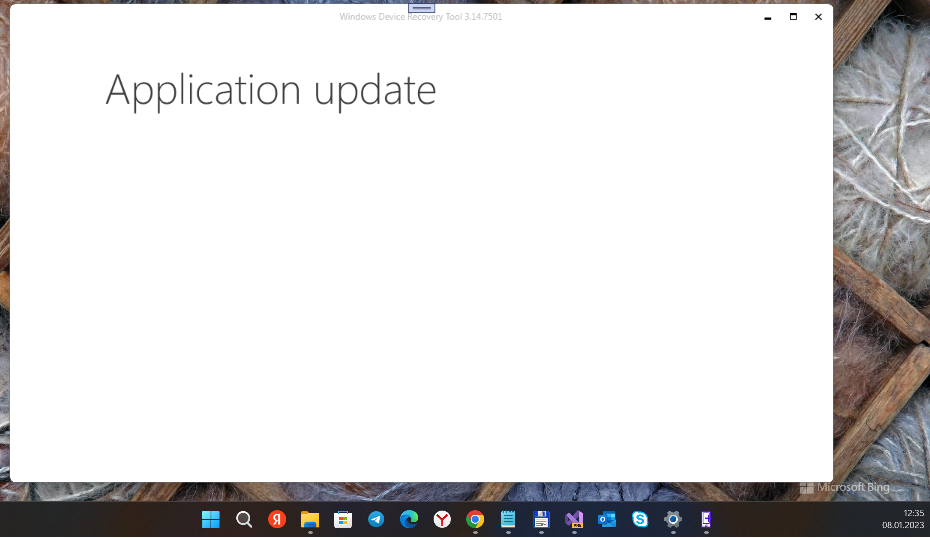
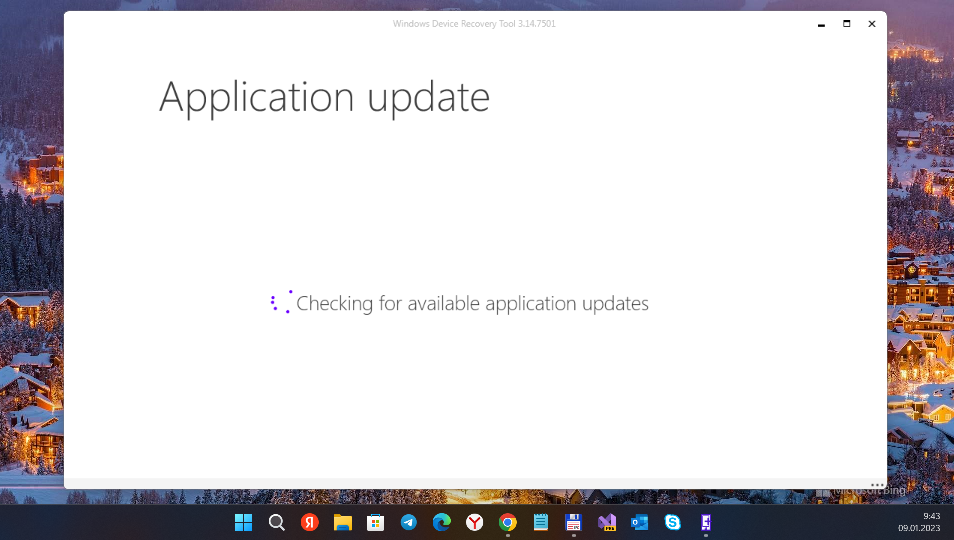
.

Changed region(s): [[0.0, 0.0, 1.0, 1.0], [0.2806, 0.5353, 0.686, 0.5948], [0.0, 0.9814, 0.0312, 1.0]]

diff --git a/Src/WindowsDeviceRecoveryTool/States/Shell/ShellView.xaml b/Src/WindowsDeviceRecoveryTool/States/Shell/ShellView.xaml
@@ -1,24 +1,37 @@
 <ContentControl
-	x:Class="Microsoft.WindowsDeviceRecoveryTool.States.Shell.ShellView" xmlns="http://schemas.microsoft.com/winfx/2006/xaml/presentation" xmlns:x="http://schemas.microsoft.com/winfx/2006/xaml" xmlns:d="http://schemas.microsoft.com/expression/blend/2008" xmlns:mc="http://schemas.openxmlformats.org/markup-compatibility/2006" xmlns:framework="clr-namespace:Microsoft.WindowsDeviceRecoveryTool.Framework" xmlns:resources="clr-namespace:Microsoft.WindowsDeviceRecoveryTool.Resources" xmlns:controls="clr-namespace:Microsoft.WindowsDeviceRecoveryTool.Controls" xmlns:i="http://schemas.microsoft.com/expression/2010/interactivity" xmlns:sys="clr-namespace:System;assembly=mscorlib" xmlns:threading="clr-namespace:System.Windows.Threading;assembly=WindowsBase" xmlns:converters="clr-namespace:Microsoft.WindowsDeviceRecoveryTool.Styles.Converters;assembly=Microsoft.WindowsDeviceRecoveryTool.Styles"
-	Focusable="False" xmlns:shell="clr-namespace:Microsoft.WindowsDeviceRecoveryTool.States.Shell"
-	MouseLeftButtonDown="ShellView_OnMouseLeftButtonDown"
+	x:Class="Microsoft.WindowsDeviceRecoveryTool.States.Shell.ShellView" 
+    xmlns="http://schemas.microsoft.com/winfx/2006/xaml/presentation" 
+    xmlns:x="http://schemas.microsoft.com/winfx/2006/xaml" 
+    xmlns:d="http://schemas.microsoft.com/expression/blend/2008" 
+    xmlns:mc="http://schemas.openxmlformats.org/markup-compatibility/2006" 
+    xmlns:framework="clr-namespace:Microsoft.WindowsDeviceRecoveryTool.Framework" 
+    xmlns:resources="clr-namespace:Microsoft.WindowsDeviceRecoveryTool.Resources" 
+    xmlns:controls="clr-namespace:Microsoft.WindowsDeviceRecoveryTool.Controls" 
+    xmlns:i="http://schemas.microsoft.com/expression/2010/interactivity" 
+    xmlns:sys="clr-namespace:System;assembly=mscorlib" 
+    xmlns:threading="clr-namespace:System.Windows.Threading;assembly=WindowsBase" 
+    xmlns:converters="clr-namespace:Microsoft.WindowsDeviceRecoveryTool.Styles.Converters;assembly=Microsoft.WindowsDeviceRecoveryTool.Styles"
+	Focusable="False" xmlns:shell="clr-namespace:Microsoft.WindowsDeviceRecoveryTool.States.Shell" 
+    MouseLeftButtonDown="ShellView_OnMouseLeftButtonDown"
 	MouseRightButtonDown="ShellView_OnMouseRightButtonDown"
 	PreviewKeyDown="ShellView_OnPreviewKeyDown"
 	Unloaded="ShellView_OnUnloaded">
 	<FrameworkElement.Resources>
+        
 		<ResourceDictionary>
 			<threading:DispatcherTimer
 				Interval="0:0:0.1"
 				x:Key="FocusDelayTimer"
 				Tick="FocusDelayTimer_OnTick" />
-			<!--converters:StringNullOrEmptyToVisibilityConverter
-				Collapse="False"
-				x:Key="StringNullOrEmptyToVisibilityConverter" /-->
-		</ResourceDictionary>
+		     <converters:StringNullOrEmptyToVisibilityConverter 
+                 Collapse="False"	
+                 x:Key="StringNullOrEmptyToVisibilityConverter" />
+        </ResourceDictionary>
 	</FrameworkElement.Resources>
-	<Grid>
-		<controls:GenericRoot
-		    x:Name="GenericRoot1"
+	
+    <Grid>
+            <controls:GenericRoot
+		    x:Name="GenericRoot"
 			KeyboardNavigation.TabNavigation="Cycle"
 			KeyboardNavigation.IsTabStop="False"
 			FocusVisualStyle="{x:Null}"
@@ -82,19 +95,19 @@
 					KeyboardNavigation.TabNavigation="None"
 					FocusVisualStyle="{x:Null}">
 					
-                    <!--controls:NotificationControl
+                    <controls:NotificationControl
 						Margin="10,0,-80,0"
 						HeaderStyle="{DynamicResource SubheaderTextStyle}"
 						MessageStyle="{DynamicResource BasicTextStyle}"
 						ShowNotification="{Binding IsNotificationVisible}"
 						NotificationText="{Binding NotificationText}"
 						NotificationHeader="{Binding NotificationHeader}" 
-                      /-->
+                      />
                     
 				</ContentControl>
 				
-                <!--controls:MainAreaControl
-					Name="MainContent"
+                <controls:MainAreaControl
+					x:Name="MainContent"
 					ContentChanged="MainContent_OnContentChanged"
 					Grid.Column="1"
 					Grid.Row="1"
@@ -102,13 +115,9 @@
 					VerticalAlignment="Stretch"
 					framework:RegionManager.RegionName="{x:Static resources:Consts.MainArea}"
 					Focusable="False"
-					FocusVisualStyle="{x:Null}" 
-                /-->
+					FocusVisualStyle="{x:Null}" />
 
-                <!--
-                framework:RegionManager.RegionName="{x:Static resources:Consts.SettingsArea}"
-                -->
-                    <ContentControl
+                <ContentControl
 					Grid.Column="0"
 					Grid.ColumnSpan="3"
 					Grid.Row="1"
@@ -116,16 +125,17 @@
 					HorizontalAlignment="Stretch"
 					HorizontalContentAlignment="Stretch"
 					Grid.RowSpan="2"
-					Focusable="False"
+					framework:RegionManager.RegionName="{x:Static resources:Consts.SettingsArea}"
+                    Focusable="False"
 					FocusVisualStyle="{x:Null}">
-					<!--controls:SettingsControl
-						Name="SettingsControl"
+                    <controls:SettingsControl
+						x:Name="SettingsControl"
 						HorizontalAlignment="Stretch"
 						Margin="-10,0,-10,0"
 						MinHeight="50"
-						VerticalAlignment="Bottom" /-->
-				</ContentControl>
-			</Grid>
+						VerticalAlignment="Bottom" />
+                </ContentControl>
+            </Grid>
 		</controls:GenericRoot>
         
 		<StackPanel
@@ -144,5 +154,6 @@
 				VerticalAlignment="Center"
 				Text="{Binding BusyMessage}" />
 		</StackPanel>
+        
 	</Grid>
 </ContentControl>

diff --git a/Src/WindowsDeviceRecoveryTool/States/Settings/MainSettingsView.xaml b/Src/WindowsDeviceRecoveryTool/States/Settings/MainSettingsView.xaml
@@ -1,5 +1,14 @@
 <Grid
-	x:Class="Microsoft.WindowsDeviceRecoveryTool.States.Settings.MainSettingsView" xmlns="http://schemas.microsoft.com/winfx/2006/xaml/presentation" xmlns:x="http://schemas.microsoft.com/winfx/2006/xaml" xmlns:mc="http://schemas.openxmlformats.org/markup-compatibility/2006" xmlns:d="http://schemas.microsoft.com/expression/blend/2008" xmlns:framework="clr-namespace:Microsoft.WindowsDeviceRecoveryTool.Framework" xmlns:resources="clr-namespace:Microsoft.WindowsDeviceRecoveryTool.Resources" xmlns:settings="clr-namespace:Microsoft.WindowsDeviceRecoveryTool.States.Settings" xmlns:localization="clr-namespace:Microsoft.WindowsDeviceRecoveryTool.Localization;assembly=Microsoft.WindowsDeviceRecoveryTool.Localization" xmlns:behaviors="clr-namespace:Microsoft.WindowsDeviceRecoveryTool.Styles.Behaviors;assembly=Microsoft.WindowsDeviceRecoveryTool.Styles">
+	x:Class="Microsoft.WindowsDeviceRecoveryTool.States.Settings.MainSettingsView" 
+    xmlns="http://schemas.microsoft.com/winfx/2006/xaml/presentation" 
+    xmlns:x="http://schemas.microsoft.com/winfx/2006/xaml" 
+    xmlns:mc="http://schemas.openxmlformats.org/markup-compatibility/2006" 
+    xmlns:d="http://schemas.microsoft.com/expression/blend/2008" 
+    xmlns:framework="clr-namespace:Microsoft.WindowsDeviceRecoveryTool.Framework" 
+    xmlns:resources="clr-namespace:Microsoft.WindowsDeviceRecoveryTool.Resources" 
+    xmlns:settings="clr-namespace:Microsoft.WindowsDeviceRecoveryTool.States.Settings" 
+    xmlns:localization="clr-namespace:Microsoft.WindowsDeviceRecoveryTool.Localization;assembly=Microsoft.WindowsDeviceRecoveryTool.Localization" 
+    xmlns:behaviors="clr-namespace:Microsoft.WindowsDeviceRecoveryTool.Styles.Behaviors;assembly=Microsoft.WindowsDeviceRecoveryTool.Styles">
 	<Grid.ColumnDefinitions>
 		<ColumnDefinition
 			Width="200" />

diff --git a/Src/WindowsDeviceRecoveryTool/States/Help/MainHelpView.xaml b/Src/WindowsDeviceRecoveryTool/States/Help/MainHelpView.xaml
@@ -1,5 +1,14 @@
 <ScrollViewer
-	x:Class="Microsoft.WindowsDeviceRecoveryTool.States.Help.MainHelpView" xmlns="http://schemas.microsoft.com/winfx/2006/xaml/presentation" xmlns:x="http://schemas.microsoft.com/winfx/2006/xaml" xmlns:mc="http://schemas.openxmlformats.org/markup-compatibility/2006" xmlns:d="http://schemas.microsoft.com/expression/blend/2008" xmlns:l="clr-namespace:Microsoft.WindowsDeviceRecoveryTool.Localization;assembly=Microsoft.WindowsDeviceRecoveryTool.Localization" xmlns:framework="clr-namespace:Microsoft.WindowsDeviceRecoveryTool.Framework" xmlns:resources="clr-namespace:Microsoft.WindowsDeviceRecoveryTool.Resources" xmlns:help="clr-namespace:Microsoft.WindowsDeviceRecoveryTool.States.Help" xmlns:behaviors="clr-namespace:Microsoft.WindowsDeviceRecoveryTool.Styles.Behaviors;assembly=Microsoft.WindowsDeviceRecoveryTool.Styles"
+	x:Class="Microsoft.WindowsDeviceRecoveryTool.States.Help.MainHelpView" 
+    xmlns="http://schemas.microsoft.com/winfx/2006/xaml/presentation" 
+    xmlns:x="http://schemas.microsoft.com/winfx/2006/xaml" 
+    xmlns:mc="http://schemas.openxmlformats.org/markup-compatibility/2006" 
+    xmlns:d="http://schemas.microsoft.com/expression/blend/2008" 
+    xmlns:l="clr-namespace:Microsoft.WindowsDeviceRecoveryTool.Localization;assembly=Microsoft.WindowsDeviceRecoveryTool.Localization" 
+    xmlns:framework="clr-namespace:Microsoft.WindowsDeviceRecoveryTool.Framework" 
+    xmlns:resources="clr-namespace:Microsoft.WindowsDeviceRecoveryTool.Resources" 
+    xmlns:help="clr-namespace:Microsoft.WindowsDeviceRecoveryTool.States.Help" 
+    xmlns:behaviors="clr-namespace:Microsoft.WindowsDeviceRecoveryTool.Styles.Behaviors;assembly=Microsoft.WindowsDeviceRecoveryTool.Styles"
 	Name="RootElement"
 	HorizontalScrollBarVisibility="Disabled"
 	VerticalScrollBarVisibility="Auto"

diff --git a/Src/WindowsDeviceRecoveryTool/Controllers/AppController.cs b/Src/WindowsDeviceRecoveryTool/Controllers/AppController.cs
@@ -104,9 +104,13 @@ namespace Microsoft.WindowsDeviceRecoveryTool.Controllers
 			{
 				if (ApplicationBuildSettings.SkipApplicationUpdate || !this.IsAvailableAppUpdate())
 				{
-					//RnD
-					//base.Commands.Run((AppController c) => c.SwitchToState("AutomaticManufacturerSelectionState"));
-				}
+                    //RnD
+                    base.Commands.Run((AppController c) =>
+                    {
+                        c.SwitchToState("AutomaticManufacturerSelectionState");
+                    });
+                    
+                }
 			}
 			catch (Exception ex)
 			{
@@ -140,7 +144,7 @@ namespace Microsoft.WindowsDeviceRecoveryTool.Controllers
 		public void InstallAppUpdate(object parameter, CancellationToken cancellationToken)
 		{
 			//RnD
-			//base.Commands.Run((AppController c) => c.SwitchToState("AppAutoUpdateState"));
+			base.Commands.Run((AppController c) => c.SwitchToState("AppAutoUpdateState"));
 		}
 
 		// Token: 0x06000759 RID: 1881 RVA: 0x00026F14 File Offset: 0x00025114
@@ -195,8 +199,9 @@ namespace Microsoft.WindowsDeviceRecoveryTool.Controllers
 					return;
 				}
 			}
+			
 			//RnD
-			//base.Commands.Run((AppController c) => c.SwitchToState(comparisonStatusAndStateTuple.Item2));
+			base.Commands.Run((AppController c) => c.SwitchToState(comparisonStatusAndStateTuple.Item2));
 		}
 
 		// Token: 0x0600075C RID: 1884 RVA: 0x00027118 File Offset: 0x00025318
@@ -206,7 +211,7 @@ namespace Microsoft.WindowsDeviceRecoveryTool.Controllers
 			((IAsyncDelegateCommand)base.Commands["UpdateApplication"]).Cancel();
 			
 			//RnD
-			//base.Commands.Run((AppController c) => c.SwitchToState("CheckAppAutoUpdateState"));
+			base.Commands.Run((AppController c) => c.SwitchToState("CheckAppAutoUpdateState"));
 		}
 
 		// Token: 0x0600075D RID: 1885 RVA: 0x000271A7 File Offset: 0x000253A7

diff --git a/Src/WindowsDeviceRecoveryTool/States/Shell/ShellViewModel.cs b/Src/WindowsDeviceRecoveryTool/States/Shell/ShellViewModel.cs
@@ -222,34 +222,34 @@ namespace Microsoft.WindowsDeviceRecoveryTool.States.Shell
 			this.IsBackButton = message.IsBackButton;
 		}
 
-		// Token: 0x0400032B RID: 811
-		private Microsoft.WindowsDeviceRecoveryTool.ApplicationLogic.AppContext appContext;
+        // Token: 0x0400032B RID: 811
+        public Microsoft.WindowsDeviceRecoveryTool.ApplicationLogic.AppContext appContext;
 
-		// Token: 0x0400032C RID: 812
-		private string busyMessage;
+        // Token: 0x0400032C RID: 812
+        public string busyMessage;
 
-		// Token: 0x0400032D RID: 813
-		private string notificationHeader;
+        // Token: 0x0400032D RID: 813
+        public string notificationHeader;
 
-		// Token: 0x0400032E RID: 814
-		private string notificationText;
+        // Token: 0x0400032E RID: 814
+        public string notificationText;
 
-		// Token: 0x0400032F RID: 815
-		private string headerText;
+        // Token: 0x0400032F RID: 815
+        public string headerText;
 
-		// Token: 0x04000330 RID: 816
-		private string subheaderText;
+        // Token: 0x04000330 RID: 816
+        public string subheaderText;
 
-		// Token: 0x04000331 RID: 817
-		private bool isAppBusy;
+        // Token: 0x04000331 RID: 817
+        public bool isAppBusy;
 
-		// Token: 0x04000332 RID: 818
-		private bool? isNotificationVisible;
+        // Token: 0x04000332 RID: 818
+        public bool? isNotificationVisible;
 
-		// Token: 0x04000333 RID: 819
-		private bool showDetailedInfo;
+        // Token: 0x04000333 RID: 819
+        public bool showDetailedInfo;
 
-		// Token: 0x04000334 RID: 820
-		private bool isBackButton;
+        // Token: 0x04000334 RID: 820
+        public bool isBackButton;
 	}
 }

diff --git a/Src/WindowsDeviceRecoveryTool/Framework/RegionManager.cs b/Src/WindowsDeviceRecoveryTool/Framework/RegionManager.cs
@@ -100,16 +100,21 @@ namespace Microsoft.WindowsDeviceRecoveryTool.Framework
 		}
 
 		// Token: 0x040000FB RID: 251
-		private readonly IDictionary<string, ContentControl> regions = new Dictionary<string, ContentControl>();
+		private readonly IDictionary<string, ContentControl> 
+			regions = new Dictionary<string, ContentControl>();
 
 		// Token: 0x040000FC RID: 252
-		public static readonly DependencyProperty RegionNameProperty = DependencyProperty.RegisterAttached("RegionName", typeof(string), typeof(RegionManager), new FrameworkPropertyMetadata(string.Empty, FrameworkPropertyMetadataOptions.AffectsRender, new PropertyChangedCallback(RegionManager.OnSetRegionNameChanged)));
+		public static readonly DependencyProperty RegionNameProperty 
+			= DependencyProperty.RegisterAttached("RegionName", typeof(string), 
+				typeof(RegionManager), new FrameworkPropertyMetadata(
+					string.Empty, FrameworkPropertyMetadataOptions.AffectsRender, 
+					new PropertyChangedCallback(RegionManager.OnSetRegionNameChanged)));
 
 		// Token: 0x02000049 RID: 73
-		private class Nested
+		public class Nested
 		{
 			// Token: 0x040000FD RID: 253
-			internal static readonly RegionManager NestedInstance = new RegionManager();
+			public static readonly RegionManager NestedInstance = new RegionManager();
 		}
 	}
 }

diff --git a/Src/WindowsDeviceRecoveryTool/States/Preparing/AppUpdateCheckingViewModel.cs b/Src/WindowsDeviceRecoveryTool/States/Preparing/AppUpdateCheckingViewModel.cs
@@ -84,12 +84,15 @@ namespace Microsoft.WindowsDeviceRecoveryTool.States.Preparing
 		// Token: 0x06000426 RID: 1062 RVA: 0x00013F44 File Offset: 0x00012144
 		public override void OnStarted()
 		{
-			base.EventAggregator.Publish<HeaderMessage>(new HeaderMessage(LocalizationManager.GetTranslation("ApplicationUpdate"), ""));
-			base.EventAggregator.Publish<IsBackButtonMessage>(new IsBackButtonMessage(false));
-			base.EventAggregator.Publish<BlockWindowMessage>(new BlockWindowMessage(false, null, null));
+			base.EventAggregator.Publish<HeaderMessage>(
+				new HeaderMessage(LocalizationManager.GetTranslation("ApplicationUpdate"), ""));
+			base.EventAggregator.Publish<IsBackButtonMessage>(
+				new IsBackButtonMessage(false));
+			base.EventAggregator.Publish<BlockWindowMessage>(
+				new BlockWindowMessage(false, null, null));
 			this.IsChecking = true;
 			//RnD
-			//base.Commands.Run((AppController c) => c.CheckForAppUpdate(null, CancellationToken.None));
+			base.Commands.Run((AppController c) => c.CheckForAppUpdate(null, CancellationToken.None));
 		}
 
 		// Token: 0x06000427 RID: 1063 RVA: 0x0001401F File Offset: 0x0001221F

diff --git a/Src/WindowsDeviceRecoveryTool/Framework/ICommandRepository.cs b/Src/WindowsDeviceRecoveryTool/Framework/ICommandRepository.cs
@@ -7,9 +7,13 @@ using System.Windows.Input;
 namespace Microsoft.WindowsDeviceRecoveryTool.Framework
 {
 	// Token: 0x020000E5 RID: 229
-	public interface ICommandRepository : IDictionary<string, IDelegateCommand>, ICollection<KeyValuePair<string, IDelegateCommand>>, IEnumerable<KeyValuePair<string, IDelegateCommand>>, IEnumerable
+	public interface ICommandRepository : IDictionary<string, IDelegateCommand>, 
+		ICollection<KeyValuePair<string, IDelegateCommand>>, 
+		IEnumerable<KeyValuePair<string, IDelegateCommand>>, IEnumerable
 	{
 		//void Run(Action<Controllers.SettingsController> value);
-        delegate void Run(Action<Controllers.SettingsController> value);
+        //delegate 
+	    //void Run(Action<Controllers.SettingsController> value);
+        void Run(Action<AppController> value);
     }
 }

diff --git a/Src/WindowsDeviceRecoveryTool/Framework/CommandRepository.cs b/Src/WindowsDeviceRecoveryTool/Framework/CommandRepository.cs
@@ -1,4 +1,5 @@
-using System;
+using Microsoft.WindowsDeviceRecoveryTool.Controllers;
+using System;
 using System.Collections;
 using System.Collections.Generic;
 using System.ComponentModel.Composition;
@@ -20,5 +21,9 @@ namespace Microsoft.WindowsDeviceRecoveryTool.Framework
 		protected CommandRepository(SerializationInfo info, StreamingContext context) : base(info, context)
 		{
 		}
-	}
+
+        public void Run(Action<AppController> value) 
+		{            
+        }
+    }
 }

diff --git a/Src/Microsoft.WindowsDeviceRecoveryTool.Common/Tracing/DiagnosticLogTextWriter.cs b/Src/Microsoft.WindowsDeviceRecoveryTool.Common/Tracing/DiagnosticLogTextWriter.cs
@@ -102,7 +102,15 @@ namespace Microsoft.WindowsDeviceRecoveryTool.Common.Tracing
 			{
 				builder.Append(" | ");
 			}
-			builder.AppendFormat(CultureInfo.CurrentCulture, formatString, args);
+
+			//RnD
+			if (formatString == null)
+			{
+				formatString = "";
+			}
+
+
+            builder.AppendFormat(CultureInfo.CurrentCulture, formatString, args);
 		}
 
 		// Token: 0x06000050 RID: 80 RVA: 0x000032FC File Offset: 0x000014FC

diff --git a/Src/WindowsDeviceRecoveryTool/States/Shell/ShellView.xaml.cs b/Src/WindowsDeviceRecoveryTool/States/Shell/ShellView.xaml.cs
@@ -75,8 +75,8 @@ namespace Microsoft.WindowsDeviceRecoveryTool.States.Shell
 
 		// Token: 0x0400035D RID: 861
 		private readonly DispatcherTimer focusDelayTimer;
-        private SettingsControl SettingsControl;
+        //private SettingsControl SettingsControl;
 
-        public FrameworkElement GenericRoot { get; private set; }
+        //public FrameworkElement GenericRoot { get; private set; }
     }
 }

diff --git a/README.md b/README.md
@@ -13,8 +13,9 @@ Decompiled dotnet source for Windows Device Recovery Tool, this code is provided
 
 ## My 2 cents
 - All projects "assembled" to one solution (.sln)
-- All "bad blocks" banned (disabled), but app logics crashed (events, dictionary etc. : mulfunction)
-- App compilation ok, app starts (shows blank window)
+- Some "bad blocks" banned (disabled), 
+- Some app logics crashed (events, dictionary...)
+- App compilation ok, app starts (shows only Update window)
 
 
 ## "Architecture" ("Files decompiled")
